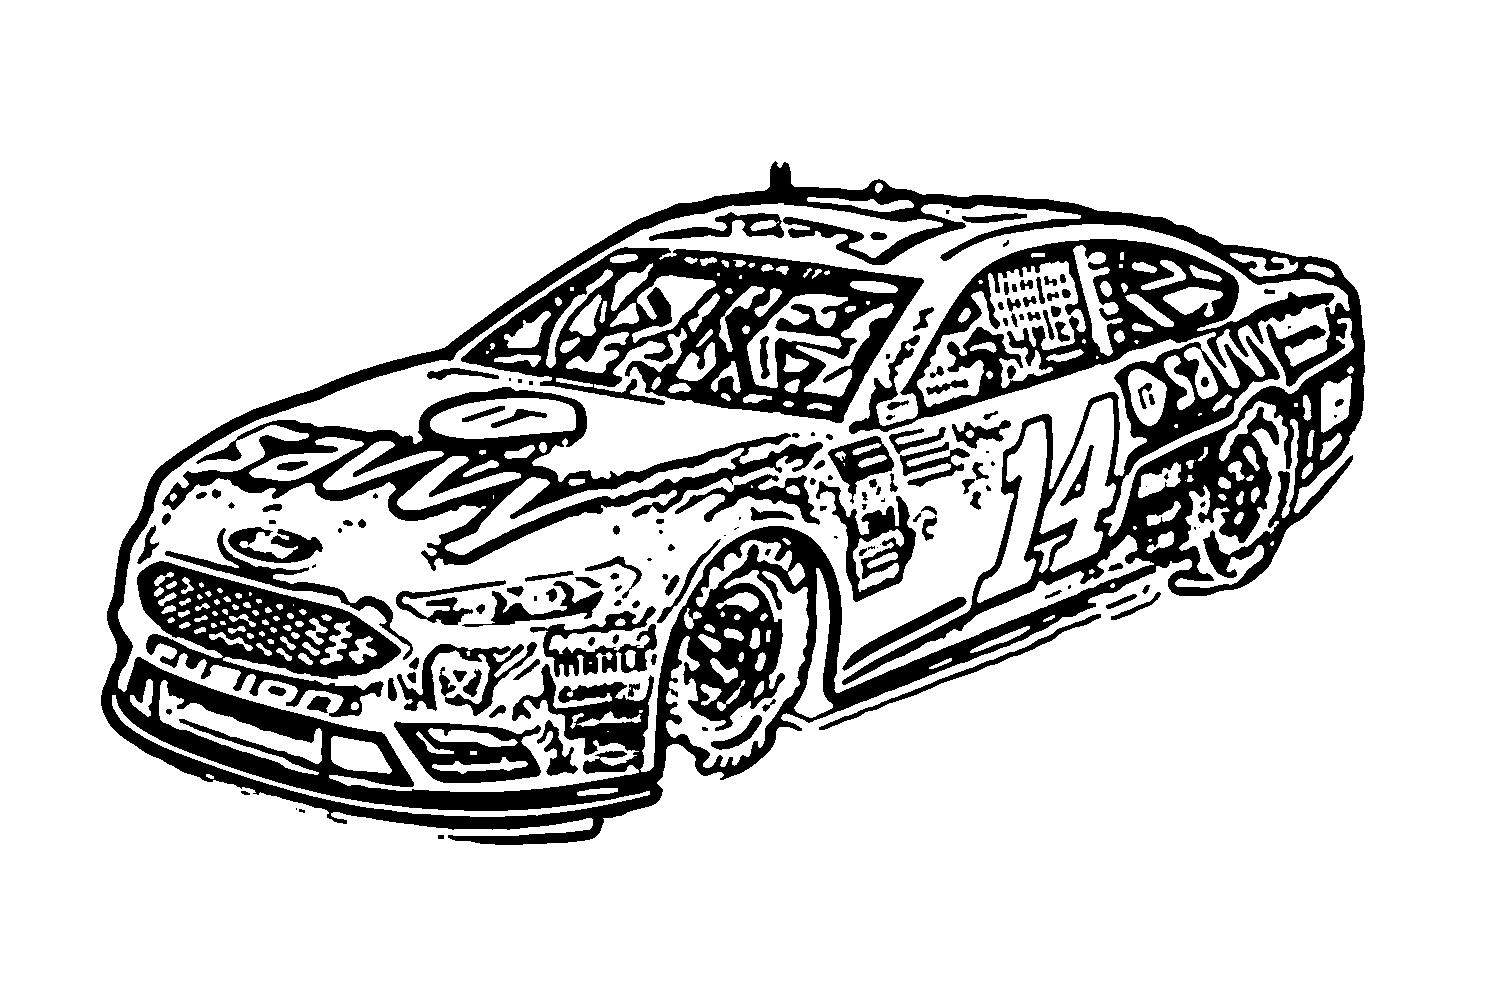
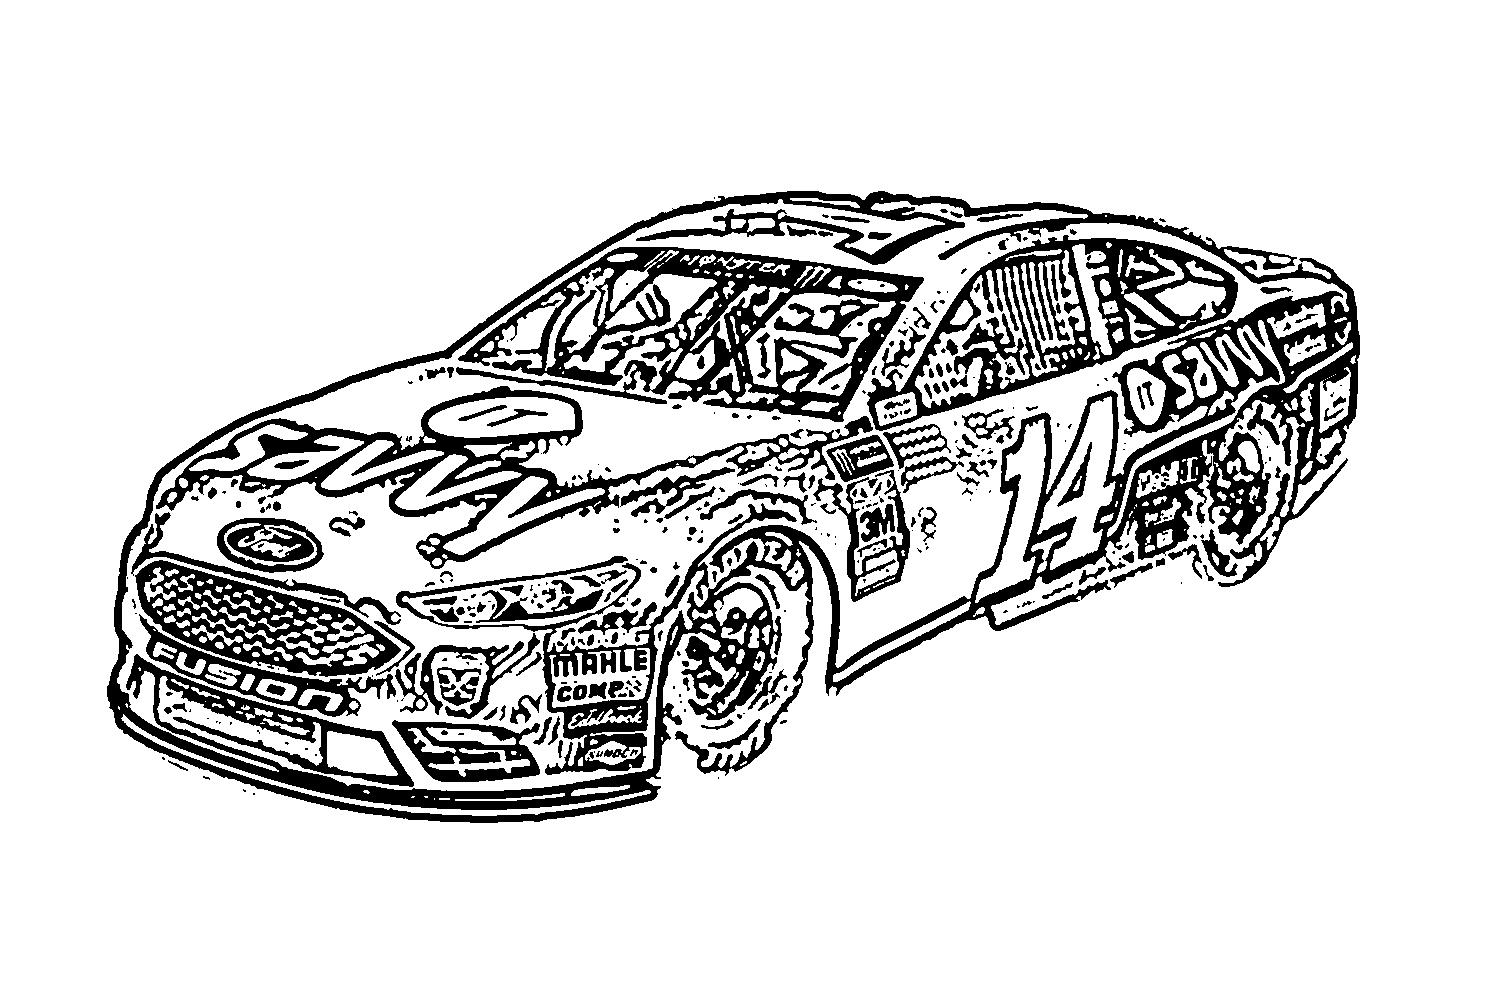
Moved some files into excess

Changed region(s): [[0.0614, 0.1552, 0.9206, 0.8689]]

diff --git a/ColouringWithMask.py b/ColouringWithMask.py
@@ -4,22 +4,168 @@ import pandas as pd
 import os
 import warnings
 warnings.filterwarnings('ignore')
-# For running inference on the TF-Hub module.
 import tensorflow as tf
 import tensorflow_hub as hub
-# For downloading the image.
 import matplotlib.pyplot as plt
-# For drawing onto the image.
 import numpy as np
 np.set_printoptions(suppress=True)
-from PIL import Image
-from PIL import ImageColor
-from PIL import ImageDraw
-from PIL import ImageFont
+from PIL import Image, ImageColor, ImageDraw, ImageFont
 import cv2
 from kneed import KneeLocator
 import glob
 from UtilityFunctions import directory_creator
+from Plots import plot_elbow_method
+from time import perf_counter
+import tarfile
+import tempfile
+from six.moves import urllib
+import warnings
+warnings.filterwarnings('ignore')
+import tensorflow.compat.v1 as tf
+tf.disable_v2_behavior()
+
+
+
+
+def create_pascal_label_colormap():
+    """Creates a label colormap used in PASCAL VOC segmentation benchmark.
+
+    Returns:
+    A Colormap for visualizing segmentation results.
+    """
+    colormap = np.zeros((256, 3), dtype=int)
+    ind = np.arange(256, dtype=int)
+
+    for shift in reversed(range(8)):
+        for channel in range(3):
+            colormap[:, channel] |= ((ind >> channel) & 1) << shift
+            ind >>= 3
+
+    return colormap
+
+
+def label_to_color_image(label):
+    """Adds color defined by the dataset colormap to the label.
+
+    Args:
+    label: A 2D array with integer type, storing the segmentation label.
+
+    Returns:
+    result: A 2D array with floating type. The element of the array
+      is the color indexed by the corresponding element in the input label
+      to the PASCAL color map.
+
+    Raises:
+    ValueError: If label is not of rank 2 or its value is larger than color
+      map maximum entry.
+    """
+    if label.ndim != 2:
+        raise ValueError('Expect 2-D input label')
+
+    colormap = create_pascal_label_colormap()
+
+    if np.max(label) >= len(colormap):
+        raise ValueError('label value too large.')
+
+    return colormap[label]
+
+
+class MaskFinder:
+    INPUT_TENSOR_NAME = 'ImageTensor:0'
+    OUTPUT_TENSOR_NAME = 'SemanticPredictions:0'
+    INPUT_SIZE = 513
+    FROZEN_GRAPH_NAME = 'frozen_inference_graph'
+
+    def __init__(self, file_path, file_name, output_path):
+        self.original_im = Image.open(file_path)
+        self.file_name = file_name
+        self.output_path = output_path
+        """Creates and loads pretrained deeplab model."""
+        self.graph = tf.Graph()
+
+        MODEL_NAME = 'mobilenetv2_coco_voctrainaug'  # @param ['mobilenetv2_coco_voctrainaug', 'mobilenetv2_coco_voctrainval', 'xception_coco_voctrainaug', 'xception_coco_voctrainval']
+
+        _DOWNLOAD_URL_PREFIX = 'http://download.tensorflow.org/models/'
+        _MODEL_URLS = {
+          'mobilenetv2_coco_voctrainaug':
+            'deeplabv3_mnv2_pascal_train_aug_2018_01_29.tar.gz',
+          'mobilenetv2_coco_voctrainval':
+            'deeplabv3_mnv2_pascal_trainval_2018_01_29.tar.gz',
+          'xception_coco_voctrainaug':
+            'deeplabv3_pascal_train_aug_2018_01_04.tar.gz',
+          'xception_coco_voctrainval':
+            'deeplabv3_pascal_trainval_2018_01_04.tar.gz',
+        }
+
+        _TARBALL_NAME = 'deeplab_model.tar.gz'
+
+        model_dir = tempfile.mkdtemp()
+        tf.gfile.MakeDirs(model_dir)
+
+        download_path = os.path.join(model_dir, _TARBALL_NAME)
+        urllib.request.urlretrieve(_DOWNLOAD_URL_PREFIX + _MODEL_URLS[MODEL_NAME], download_path)
+
+        graph_def = None
+        # Extract frozen graph from tar archive.
+        tar_file = tarfile.open(download_path)
+        for tar_info in tar_file.getmembers():
+            if self.FROZEN_GRAPH_NAME in os.path.basename(tar_info.name):
+                file_handle = tar_file.extractfile(tar_info)
+                graph_def = tf.GraphDef.FromString(file_handle.read())
+                break
+
+        tar_file.close()
+
+        if graph_def is None:
+            raise RuntimeError('Cannot find inference graph in tar archive.')
+
+        with self.graph.as_default():
+            tf.import_graph_def(graph_def, name='')
+
+        self.sess = tf.Session(graph=self.graph)
+
+    def define_model(self):
+        self.LABEL_NAMES = np.asarray({
+            'background', 'aeroplane', 'bicycle', 'bird', 'boat', 'bottle', 'bus',
+            'car', 'cat', 'chair', 'cow', 'diningtable', 'dog', 'horse', 'motorbike',
+            'person', 'pottedplant', 'sheep', 'sofa', 'train', 'tv'
+        })
+
+        FULL_LABEL_MAP = np.arange(21).reshape(21, 1)
+        self.FULL_COLOR_MAP = label_to_color_image(FULL_LABEL_MAP)
+
+    def run(self):
+        """Runs inference on a single image.
+
+        Args:
+          image: A PIL.Image object, raw input image.
+
+        Returns:
+          resized_image: RGB image resized from original input image.
+          seg_map: Segmentation map of `resized_image`.
+        """
+        width, height = self.original_im.size
+        self.resize_ratio = 1.0 * self.INPUT_SIZE / max(width, height)
+        self.target_size = (int(self.resize_ratio * width), int(self.resize_ratio * height))
+
+        resized_image = self.original_im.convert('RGB').resize(self.target_size, Image.ANTIALIAS)
+        batch_seg_map = self.sess.run(
+            self.OUTPUT_TENSOR_NAME,
+            feed_dict={self.INPUT_TENSOR_NAME: [np.asarray(resized_image)]})
+        self.seg_map = batch_seg_map[0]
+
+    def vis_segmentation(self):
+        original_width = self.target_size[0] / self.resize_ratio
+        original_height = self.target_size[1] / self.resize_ratio
+
+        seg_map_pil = Image.fromarray(np.uint8(self.seg_map))
+        seg_map_pil = np.array(seg_map_pil.resize((int(original_width), int(original_height))))
+        seg_image = label_to_color_image(seg_map_pil).astype(np.uint8)
+
+        imsave(self.output_path + self.file_name + "/SegmentationMaskDeepLab.jpg", arr=seg_image)
+
+
+
 
 def draw_bounding_box_on_image(image, ymin, xmin, ymax, xmax, color, font, thickness=4, display_str_list=()):
     """Adds a bounding box to an image."""
@@ -114,7 +260,7 @@ class RegionDetector:
         return left, right, top, bottom
 
 
-#GrabCut with regions
+# GrabCut with regions
 class GrabCut:
     def __init__(self, name, file_path, path):
         self.file_name = name
@@ -197,7 +343,7 @@ class GrabCutMask:
         self.output_path = path
         self.file_path = file_path
         self.original_image = cv2.imread(self.file_path)
-        self.mask = cv2.imread("MultiInputs/SegmentationMaskDeepLab.jpg", cv2.IMREAD_GRAYSCALE)
+        self.mask = cv2.imread("MultiOutput/" + str(file_name) + "/SegmentationMaskDeepLab.jpg", cv2.IMREAD_GRAYSCALE)
         self.mask_height, self.mask_width = self.mask.shape[0], self.mask.shape[1]
 
     def crop_center(self):
@@ -276,27 +422,43 @@ class Colouring:
 
     def calculate_optimal_clusters(self):
         Sum_of_squared_distances = []
+        times = []
         # Dimension of the original image
         rows, cols, _ = self.original_image.shape
 
         # Flatten the image
         imag = np.array(self.original_image).reshape(rows * cols, 3)
 
-        K = range(20, 21)
+        K = range(5, 31, 5)
         for k in K:
+            print(k)
+            start = perf_counter()
             km = KMeans(n_clusters=k)
             km.fit(imag)
+            stop = perf_counter()
+            times.append(stop-start)
             Sum_of_squared_distances.append(km.inertia_)
 
+            #  Replace each pixel value with its nearby centroid
+            compressed_image = km.cluster_centers_[km.labels_]
+            compressed_image = np.clip(compressed_image.astype('uint8'), 0, 255)
+
+            #  Reshape the image to original dimension
+            compressed_image = compressed_image.reshape(rows, cols, 3)
+            compressed_image = cv2.cvtColor(compressed_image, cv2.COLOR_BGR2RGB)
+
+            imsave((str(output_path) + str(k) + "Clustered.jpg"), compressed_image)
+
         kneedle = KneeLocator(K, Sum_of_squared_distances, S=1.0, curve="convex", direction="decreasing")
+        plot_elbow_method(Sum_of_squared_distances, times, K, knee=kneedle.knee, output_path=self.output_path)
 
         # Implement k-means clustering to form k clusters
         k_means = KMeans(n_clusters=kneedle.knee)
         k_means.fit(imag)
 
         #  Replace each pixel value with its nearby centroid
-        self.compressed_image = k_means.cluster_centers_[k_means.labels_]
-        self.compressed_image = np.clip(self.compressed_image.astype('uint8'), 0, 255)
+        compressed_image = k_means.cluster_centers_[k_means.labels_]
+        self.compressed_image = np.clip(compressed_image.astype('uint8'), 0, 255)
 
         #  Reshape the image to original dimension
         compressed_image = self.compressed_image.reshape(rows, cols, 3)
@@ -332,7 +494,6 @@ for file_name in file_names:
     output_path = ("MultiOutput/" + file_name + "/")
 
 
-
     # FasterRCNN = RegionDetector(file_name=(file_name + ".jpg"), file_path=file_path, path=output_path)
     # FasterRCNN.load_img()
     # FasterRCNN.load_model()
@@ -342,8 +503,14 @@ for file_name in file_names:
     # cutter = GrabCut(name=file_name, file_path=file_path, path=output_path)
     # cutter.create_directory()
     # cutter.grab_cut(int(left), int(right), int(top), int(bottom))
-    # cutter.plot_outputs(model_type=model_type)
+    # cutter.plot_outputs(model_type="Faster RCNN")
     # file_path = "MultiOutput/" + file_name + "/" + "GrabCut" + str(model_type) + ".jpg"
+
+    # Create Mask
+    Mask = MaskFinder(file_path=file_path, file_name=file_name, output_path="MultiOutput/")
+    Mask.define_model()
+    Mask.run()
+    Mask.vis_segmentation()
 
     #GrabCut with mask
     mask_cutter = GrabCutMask(name=file_name, file_path=file_path, path=output_path)

diff --git a/Contours.py b/Contours.py
@@ -97,11 +97,11 @@ def white_to_transparency():
 
 def calculate_font_size(caption, box, img_fraction):
     fontsize = 20  # Starting fontsize
-    font = ImageFont.truetype("comicbold.ttf", fontsize)
+    font = ImageFont.truetype("Fonts/comicbold.ttf", fontsize)
     while font.getsize(caption)[0] < img_fraction * box.size[0]:
         # iterate until the text size is just larger than the criteria
         fontsize += 1
-        font = ImageFont.truetype("comicbold.ttf", fontsize)
+        font = ImageFont.truetype("Fonts/comicbold.ttf", fontsize)
 
     return font
 
@@ -109,7 +109,7 @@ def calculate_font_size(caption, box, img_fraction):
 
 def add_caption(comic_frame):
     width, height = comic_frame.size
-    font = ImageFont.truetype("comicbold.ttf", 40)
+    font = ImageFont.truetype("Fonts/comicbold.ttf", 40)
     draw = ImageDraw.Draw(comic_frame)
     caption = "Not all superheroes are found in comics"
     tag = "#HeroesOfThePandemic"
@@ -149,7 +149,7 @@ def blend_outputs(clusters):
     :return: NA
     """
 
-    compressed_image = imread((str(output_path) + str(file_name) + str(clusters) + "Clustered.jpg"))
+    compressed_image = imread((str(output_path) + str(clusters) + "Clustered.jpg"))
     compressed_image = cv2.cvtColor(compressed_image, cv2.COLOR_BGR2RGB)
     compressed_rgba = cv2.cvtColor(compressed_image, cv2.COLOR_RGB2RGBA)
     compressed_PIL = Image.fromarray(compressed_rgba)
@@ -171,7 +171,7 @@ def blend_outputs(clusters):
 def create_painting_template(outline, clusters):
     alpha = 0.2  # This is the amount of the coloured image we include. 0 is none.
     beta = 1 - alpha
-    compressed = imread((str(output_path) + str(file_name) + str(clusters) + "Clustered.jpg"))
+    compressed = imread((str(output_path) + str(clusters) + "Clustered.jpg"))
     compressed = cv2.cvtColor(compressed, cv2.COLOR_BGR2RGB)
 
     outline = np.concatenate([outline[..., np.newaxis]] * 3, axis=2)
@@ -220,7 +220,7 @@ def main_func(img, clusters):
     compressed_img = cv2.cvtColor(img, cv2.COLOR_BGR2GRAY)  # imread reads images as Blue, Green, Red, Alpha
     plot_image(image=cv2.cvtColor(img, cv2.COLOR_BGR2RGB), title="Compressed")
 
-    k = 9  # Size of the kernal for the Gaussian Blur
+    k = 9  # Size of the kernel for the Gaussian Blur
     blurred = cv2.GaussianBlur(compressed_img, (k, k), sigmaX=(k-1)/6)
     plot_image(image=blurred, title="Blurred", map="gray")
 
@@ -291,7 +291,7 @@ def calculate_clusters():
     # Flatten the image
     imag = np.array(original_image).reshape(rows*cols, 3)
 
-    K = range(1, 31, 5)
+    K = range(5, 31, 5)
     for k in K:
         start = perf_counter()
         print(k)
@@ -311,10 +311,11 @@ def calculate_clusters():
 
         imsave((str(output_path) + str(k) + "Clustered.jpg"), compressed_image)
 
+
     kneedle = KneeLocator(K, Sum_of_squared_distances, S=1.0, curve="convex", direction="decreasing")
 
     # plot_elbow_method: arguments (x, y1, y2, elbow point)
-    plot_elbow_method(Sum_of_squared_distances, times, K, knee=kneedle.knee)
+    plot_elbow_method(Sum_of_squared_distances, times, K, knee=kneedle.knee, output_path=output_path)
 
     # Implement k-means clustering to form k clusters
     kmeans = KMeans(n_clusters=kneedle.knee)
@@ -382,6 +383,6 @@ def pdf_creator(original_image):
 
 
 clusters, compressed_image, original_image = calculate_clusters()
-#threshold_image = main_func(compressed_image, clusters=clusters)
+threshold_image = main_func(compressed_image, clusters=clusters)
 #pdf_creator(original_image)
 

diff --git a/ExcessFiles/DeepLabV3Mask.py b/ExcessFiles/DeepLabV3Mask.py
@@ -147,10 +147,10 @@ class MaskFinder:
         seg_map_pil = np.array(seg_map_pil.resize((int(original_width), int(original_height))))
         seg_image = label_to_color_image(seg_map_pil).astype(np.uint8)
 
-        imsave(self.output_path + "SegmentationMaskDeepLab.jpg", arr=seg_image)
+        imsave(self.output_path + self.file_name + "/SegmentationMaskDeepLab.jpg", arr=seg_image)
 
 
-file_name = "david"
+file_name = "astrocute"
 file_path = "MultiInputs/" + file_name + ".jpg"
 output_path = "MultiOutput/" + file_name + "/"
 

diff --git a/CannyEdgeDetection.py b/CannyEdgeDetection.py
@@ -101,7 +101,7 @@ class Canny:
         imsave((str(self.output_path) + "Contours.jpg"), contours_, cmap="gray")
 
 
-pic = Canny(name="race", path="InputImages/race.jpg", clusters=10, output="OutputImages/race")
+pic = Canny(name="cat", path="InputImages/cat.jpg", clusters=10, output="OutputImages/cat")
 pic.k_means()
 pic.canny_edge_detection()
 pic.gaussian_filter(k=7)
@@ -109,7 +109,6 @@ pic.median(filter_size=5)
 pic.auto_canny(sigma=0.33)
 pic.canny()
 pic.draw_contours()
-
 
 
 

diff --git a/Plots.py b/Plots.py
@@ -11,7 +11,7 @@ def plot_image(image, output_path, title, _map="gray"):
     plt.show()
 
 
-def plot_elbow_method(Sum_of_squared_distances, times, K, knee):
+def plot_elbow_method(Sum_of_squared_distances, times, K, knee, output_path):
     fig, ax1 = plt.subplots()
 
     color = "tab:red"
